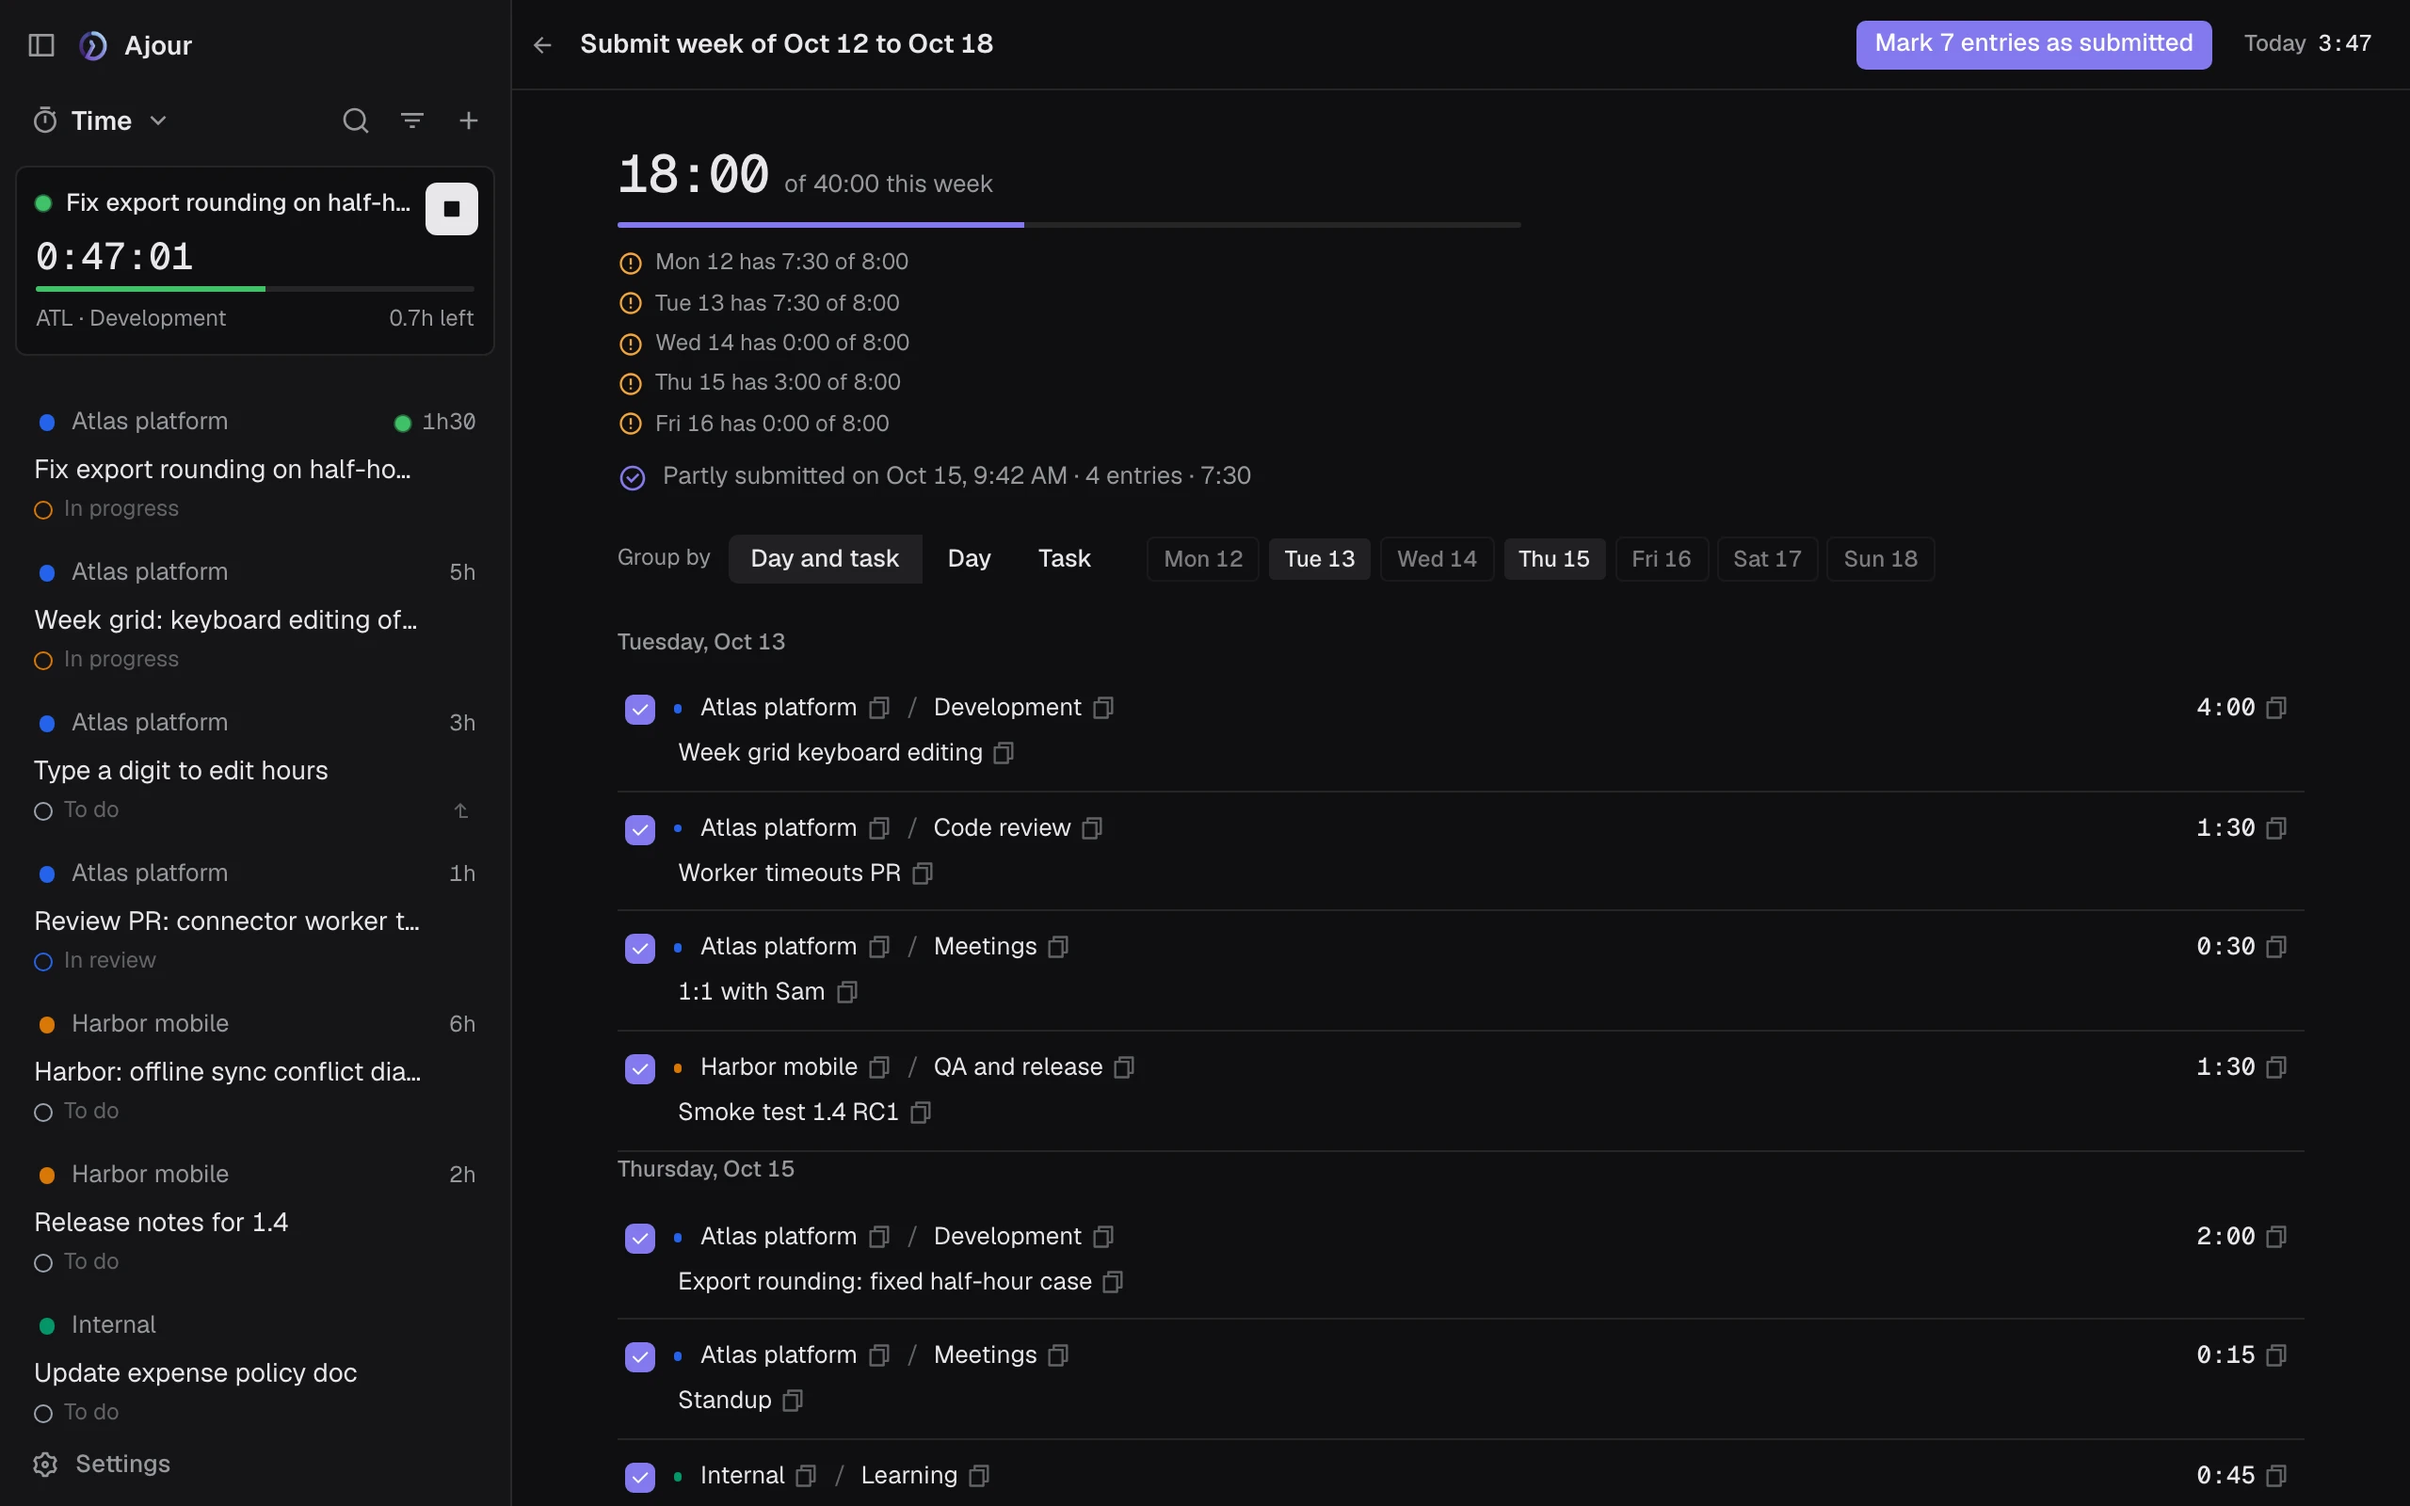
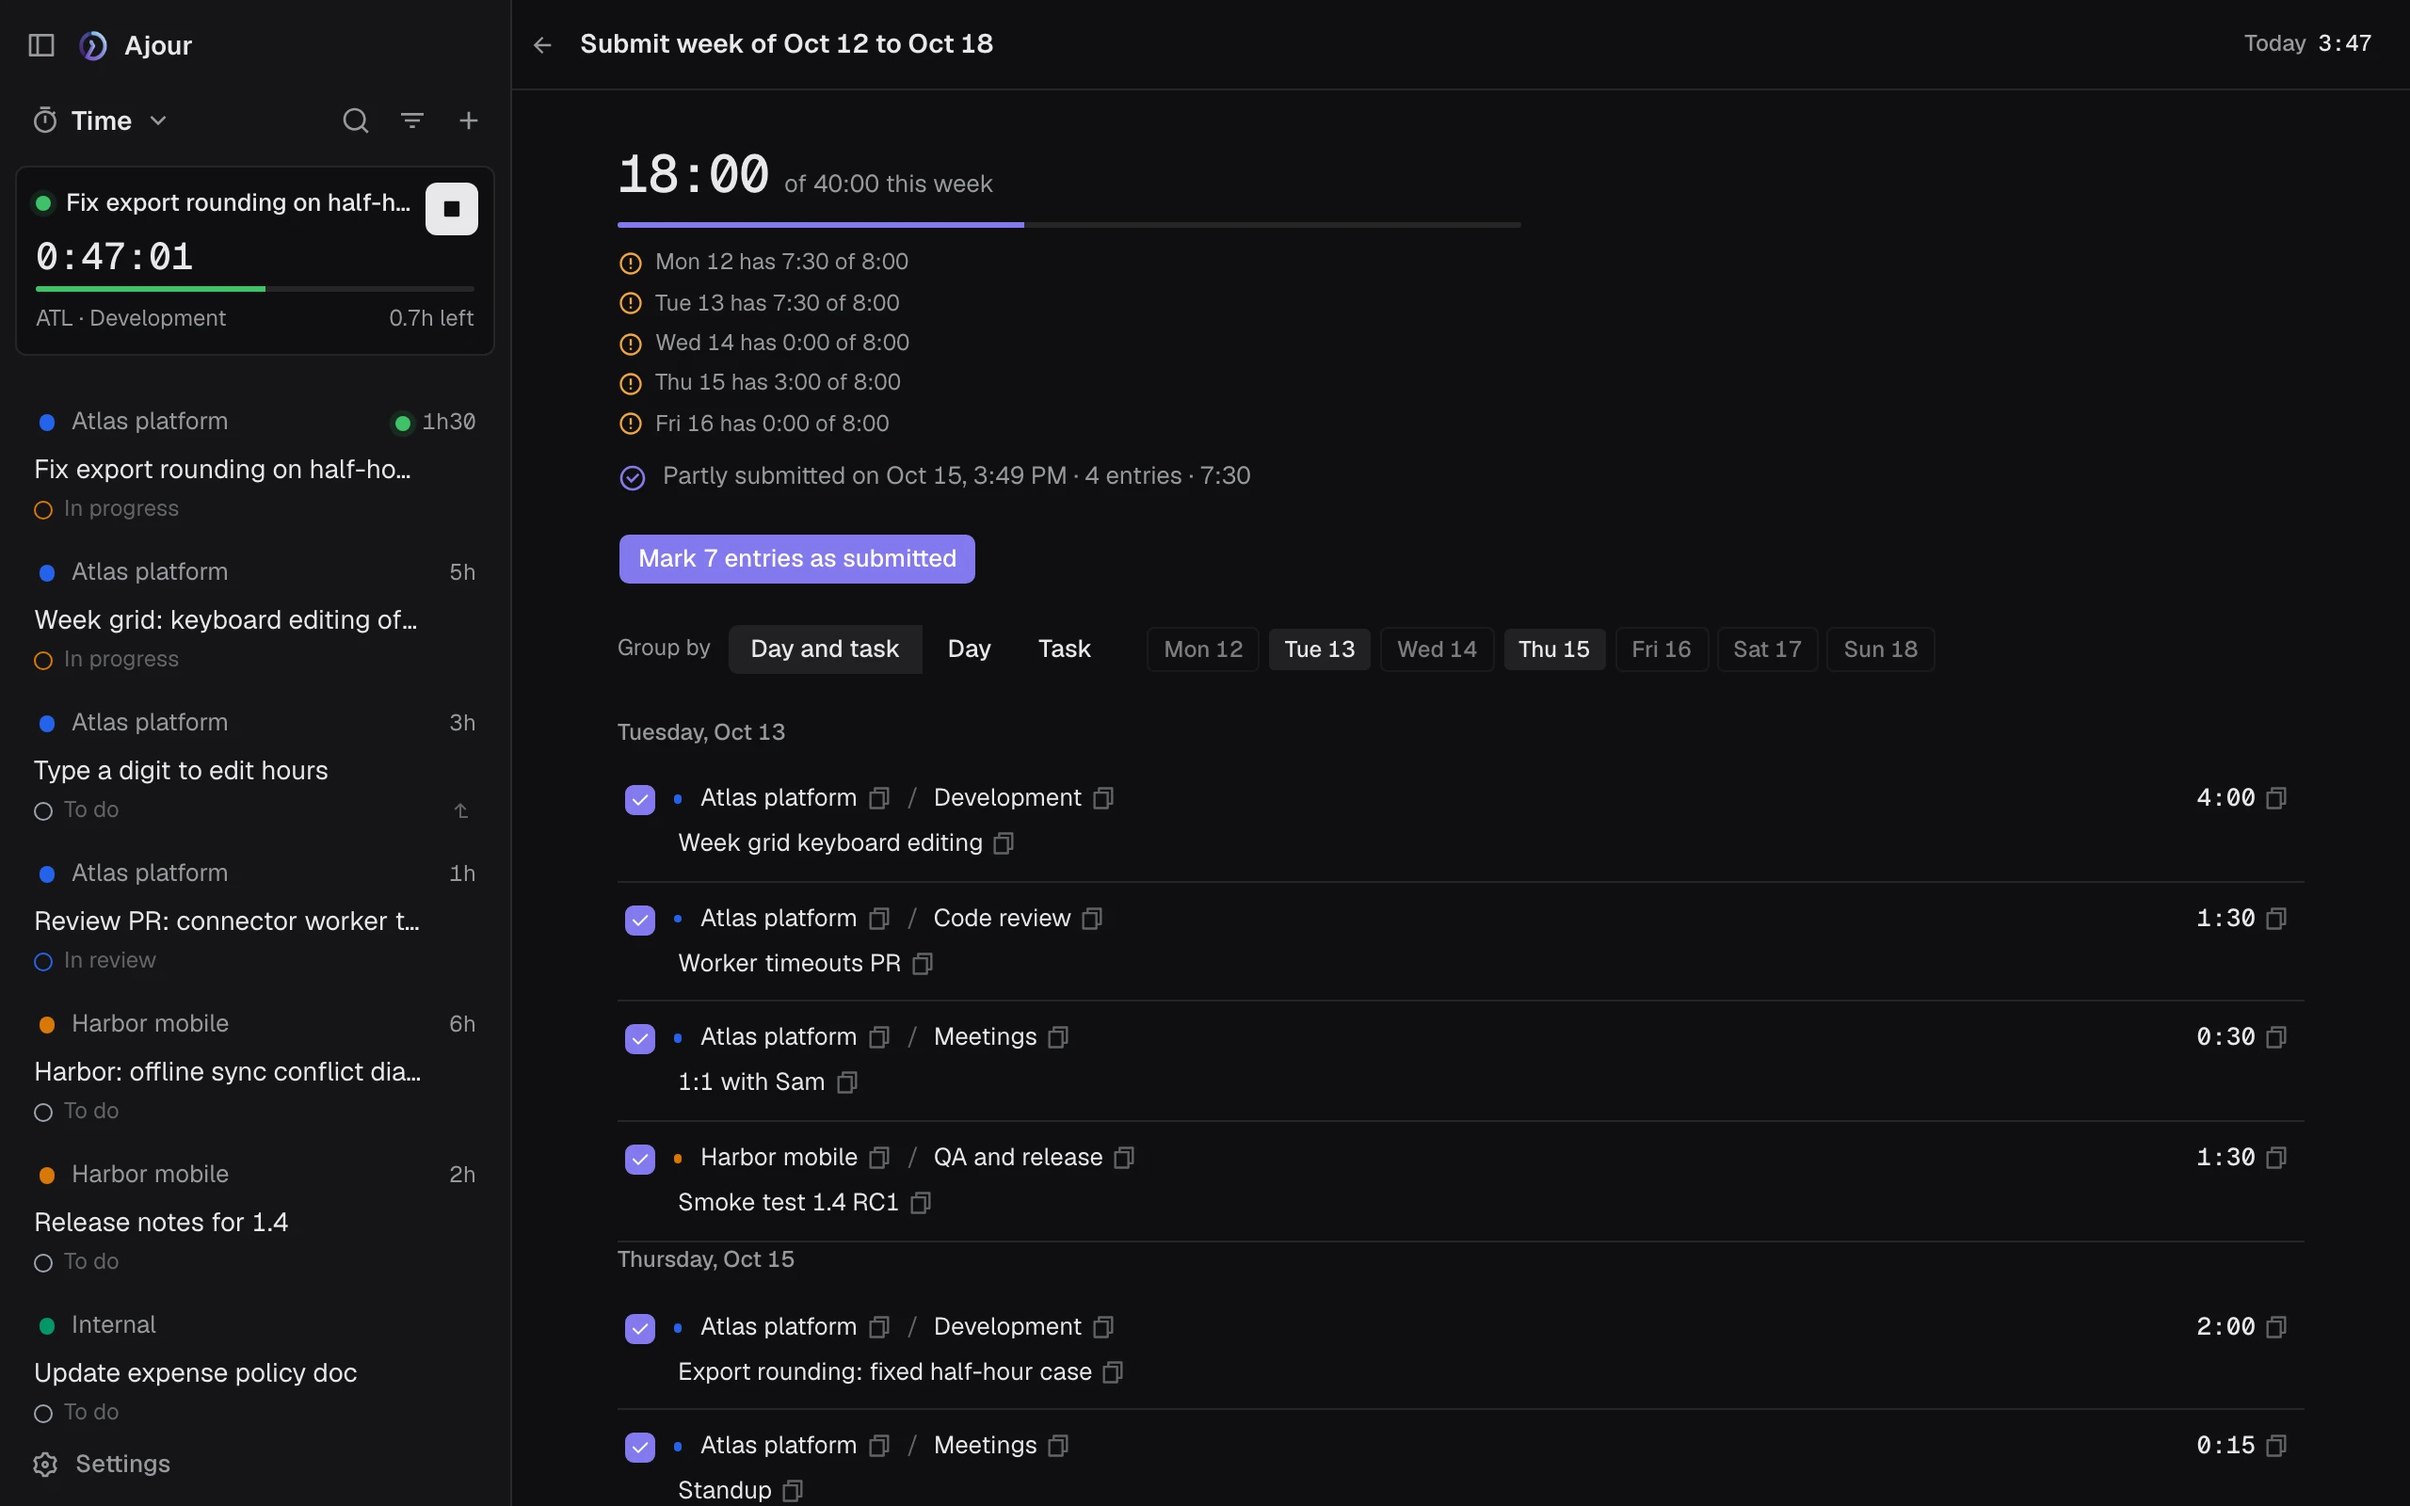
fix(time): order submit lines oldest first and continue the last tied entry
The Submit page and its merged comments follow the Day list's oldest-first
order. C picks the entry the Day list shows last when timestamps tie.

diff --git a/apps/web/src/domain/time/timesheet-submission.test.ts b/apps/web/src/domain/time/timesheet-submission.test.ts
@@ -95,13 +95,13 @@ describe("submit lines", () => {
     expect(sections[0]!.lines).toEqual([
       {
         key: "2026-10-05::atlas::dev",
-        entryIds: ["mon-dev-2", "mon-dev-1"],
-        unsubmittedEntryIds: ["mon-dev-2", "mon-dev-1"],
+        entryIds: ["mon-dev-1", "mon-dev-2"],
+        unsubmittedEntryIds: ["mon-dev-1", "mon-dev-2"],
         projectId: "atlas",
         projectName: "Client Atlas",
         taskName: "Development",
         durationMs: 3 * HOUR,
-        comments: "API | Login form",
+        comments: "Login form | API",
       },
       expect.objectContaining({
         entryIds: ["mon-review"],
@@ -121,7 +121,7 @@ describe("submit lines", () => {
 
     expect(
       sections.map((section) => section.lines.map((line) => line.entryIds)),
-    ).toEqual([[["mon-dev-2"], ["mon-review"], ["mon-dev-1"]], [["tue-dev"]]]);
+    ).toEqual([[["mon-dev-1"], ["mon-review"], ["mon-dev-2"]], [["tue-dev"]]]);
   });
 
   it("merges the whole week per task when grouping by task", () => {
@@ -141,7 +141,7 @@ describe("submit lines", () => {
         durationMs: 4 * HOUR,
         // The repeated "Login form" note appears once.
         comments: "Login form | API",
-        entryIds: ["tue-dev", "mon-dev-2", "mon-dev-1"],
+        entryIds: ["mon-dev-1", "mon-dev-2", "tue-dev"],
       }),
     ]);
   });
@@ -170,10 +170,10 @@ describe("submit lines", () => {
     expect(sections).toHaveLength(1);
     expect(sections[0]!.lines).toEqual([
       expect.objectContaining({
-        entryIds: ["kept", "changed"],
+        entryIds: ["changed", "kept"],
         unsubmittedEntryIds: ["changed"],
         durationMs: 2 * HOUR,
-        comments: "Kept | Edited",
+        comments: "Edited | Kept",
       }),
     ]);
   });

diff --git a/apps/web/src/domain/time/timesheet-entry.test.ts b/apps/web/src/domain/time/timesheet-entry.test.ts
@@ -735,16 +735,30 @@ describe("selectMostRecentTimesheetEntry", () => {
     };
   }
 
-  it("picks the top entry of the latest day up to today", () => {
+  it("picks the last entry of the latest day up to today", () => {
     const entries = [
-      savedEntry("monday-top", "2026-10-05", 50),
-      savedEntry("tuesday-bottom", "2026-10-06", 10),
-      savedEntry("tuesday-top", "2026-10-06", 20),
+      savedEntry("monday-last", "2026-10-05", 50),
+      savedEntry("tuesday-first", "2026-10-06", 10),
+      savedEntry("tuesday-last", "2026-10-06", 20),
       savedEntry("next-week", "2026-10-13", 99),
     ];
 
     expect(selectMostRecentTimesheetEntry(entries, "2026-10-11")?._id).toBe(
-      "tuesday-top",
+      "tuesday-last",
+    );
+  });
+
+  it("picks the entry the Day view shows last when timestamps tie", () => {
+    const entries = [
+      savedEntry("imported-a", "2026-10-06", 20),
+      savedEntry("imported-b", "2026-10-06", 20),
+    ];
+
+    expect(selectSortableDayEntryIds(entries, "2026-10-06").at(-1)).toBe(
+      "imported-b",
+    );
+    expect(selectMostRecentTimesheetEntry(entries, "2026-10-11")?._id).toBe(
+      "imported-b",
     );
   });
 

diff --git a/apps/web/src/domain/time/timesheet-submission.ts b/apps/web/src/domain/time/timesheet-submission.ts
@@ -152,7 +152,7 @@ function compareLines(left: SubmitLine, right: SubmitLine) {
  * - "task": one section, a line per task for the whole week.
  *
  * Days keep the week order and skip days without entries. Within a day,
- * entries keep the Day view order (latest committed first). With
+ * entries keep the Day view order (oldest committed first). With
  * `onlyUnsubmitted`, lines whose entries are all submitted are left out, but a
  * line that remains still adds up its submitted entries.
  */
@@ -175,7 +175,7 @@ export function groupSubmitLines({
   const described = describeEntries(
     entries
       .filter((entry) => weekDateSet.has(entry.localDate))
-      .sort((left, right) => right.committedAt - left.committedAt),
+      .sort((left, right) => left.committedAt - right.committedAt),
     projects,
   );
 

diff --git a/apps/web/tests/acceptance/steps/local-workspace.steps.ts b/apps/web/tests/acceptance/steps/local-workspace.steps.ts
@@ -2290,9 +2290,9 @@ Then(
     await monday.getByRole("button", { name: "Copy hours: 3.00" }).click();
     await expect.poll(readClipboard).toBe("3.00");
     await monday
-      .getByRole("button", { name: "Copy comments: API | Login form" })
+      .getByRole("button", { name: "Copy comments: Login form | API" })
       .click();
-    await expect.poll(readClipboard).toBe("API | Login form");
+    await expect.poll(readClipboard).toBe("Login form | API");
   },
 );
 

diff --git a/apps/web/src/domain/agents/agent-read-model.test.ts b/apps/web/src/domain/agents/agent-read-model.test.ts
@@ -71,8 +71,8 @@ function createState(): LocalAppState {
       },
     ],
     timesheetEntries: [
-      entry({ _id: "e1", note: "Morning", committedAt: 20 }),
-      entry({ _id: "e2", note: "Afternoon", committedAt: 10, submittedAt: 5 }),
+      entry({ _id: "e1", note: "Afternoon", committedAt: 20 }),
+      entry({ _id: "e2", note: "Morning", committedAt: 10, submittedAt: 5 }),
       entry({ _id: "e3", localDate: "2026-10-20" }),
     ],
     workItems: [

diff --git a/apps/web/src/domain/time/timesheet-entry.ts b/apps/web/src/domain/time/timesheet-entry.ts
@@ -544,8 +544,10 @@ export function selectMostRecentTimesheetEntry(
     if (
       !mostRecent ||
       entry.localDate > mostRecent.localDate ||
+      // On a tie the later stored entry wins: the Day view's stable sort
+      // shows it last.
       (entry.localDate === mostRecent.localDate &&
-        entry.committedAt > mostRecent.committedAt)
+        entry.committedAt >= mostRecent.committedAt)
     ) {
       mostRecent = entry;
     }
